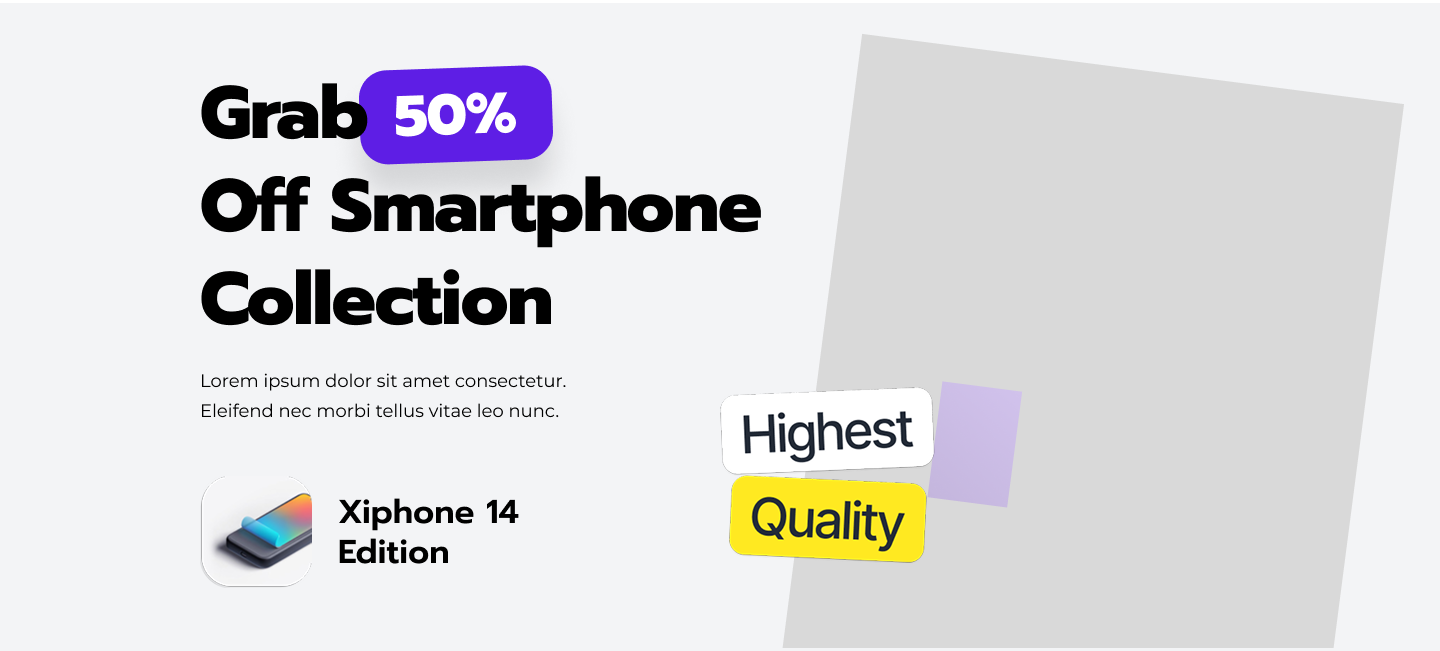
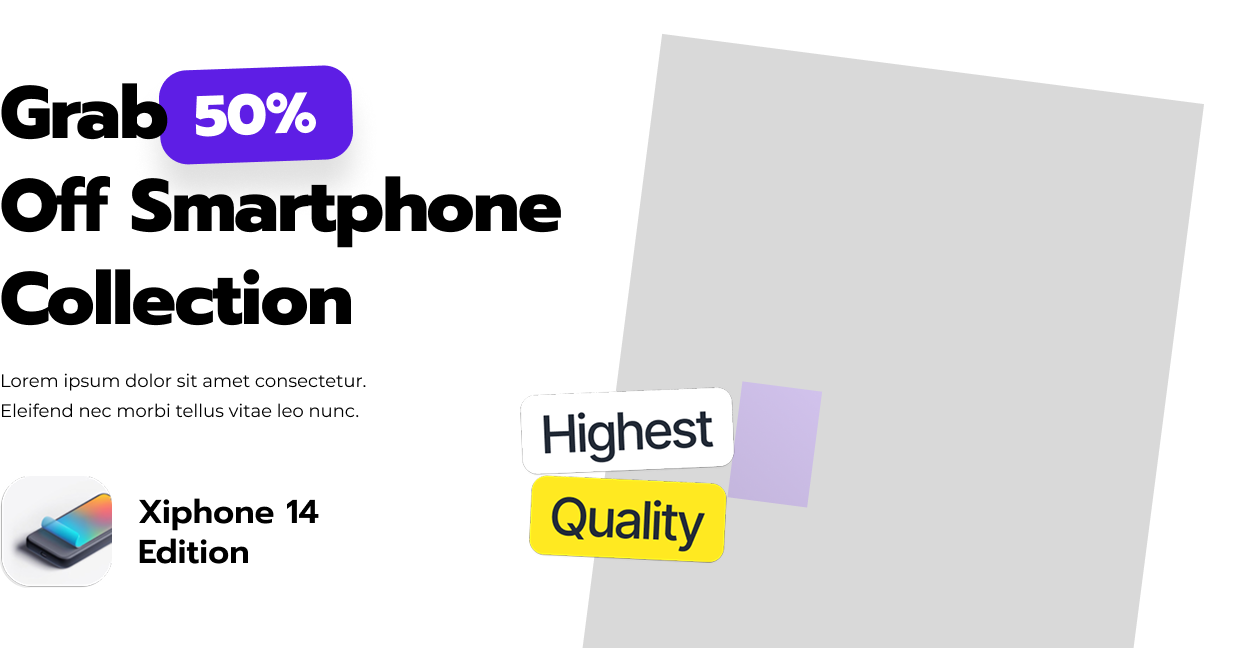
update

diff --git a/src/components/homePage/ArrivalSection.jsx b/src/components/homePage/ArrivalSection.jsx
@@ -25,8 +25,8 @@ const ArrivalSection = () => {
             </div>
           </div>
 
-          <div className=" flex items-center justify-between gap-[76px]">
-            <div className="  border-l border-[#E2E2E2] h-[308px]  relative before:content-[''] before:bg-[#5e1ee5] before:absolute before:w-[2px] before:h-[43px]  before:left-[0px] before:top-[70px]  ">
+          <div className=" flex justify-between  gap-[76px]">
+            <div className=" mt-8 border-l border-[#E2E2E2] h-[308px]  relative before:content-[''] before:bg-[#5e1ee5] before:absolute before:w-[2px] before:h-[43px]  before:left-[0px] before:top-[70px]  ">
               <div className=" w-[250px] absolute top-[17px] ">
                 <ArrivalItems
                   arrivalText="Computer & Laptop"

diff --git a/src/components/homePage/WeProvide.jsx b/src/components/homePage/WeProvide.jsx
@@ -8,7 +8,7 @@ return (
  <>
     <div className='mb-[106px]'>
         <Container>
-        <img src="images/shape.png" alt="s" className='ml-[-120px] mt-[69px] mb-[30px] relative' />
+        <img src="images/shape.png" alt="s" className='ml-[-120px] mt-[69px] mb-[30px] ' />
             <div className='w-full mx-aut relative mb-[51px] '>
                 <img src="images/shape.png" alt="shape" className=' absolute top-[40px] right-[94px]' />
                 <h1 className=' text-center text-[#000] font-["Prompt"] text-[74px] font-extrabold leading-[125%] tracking-[-1.48px]'>What <span className='text-[#5E1EE5]'>we</span> provide?</h1>

diff --git a/src/components/homePage/BannerSection.jsx b/src/components/homePage/BannerSection.jsx
@@ -4,8 +4,10 @@ import Container from '../commonLayOut/Container'
 const BannerSection = () => {
   return (
     <>
-    <div className='max-w-[1440px] mx-auto  '>
-        <img src="/images/banner.png" alt="Banner" />
+    <div className=' bg-[#f3f4f6] '>
+        <Container>
+          <img src="/images/banner.png" alt="Banner" className='ml-[100px]'/>
+        </Container>
     </div>
    
     </>
